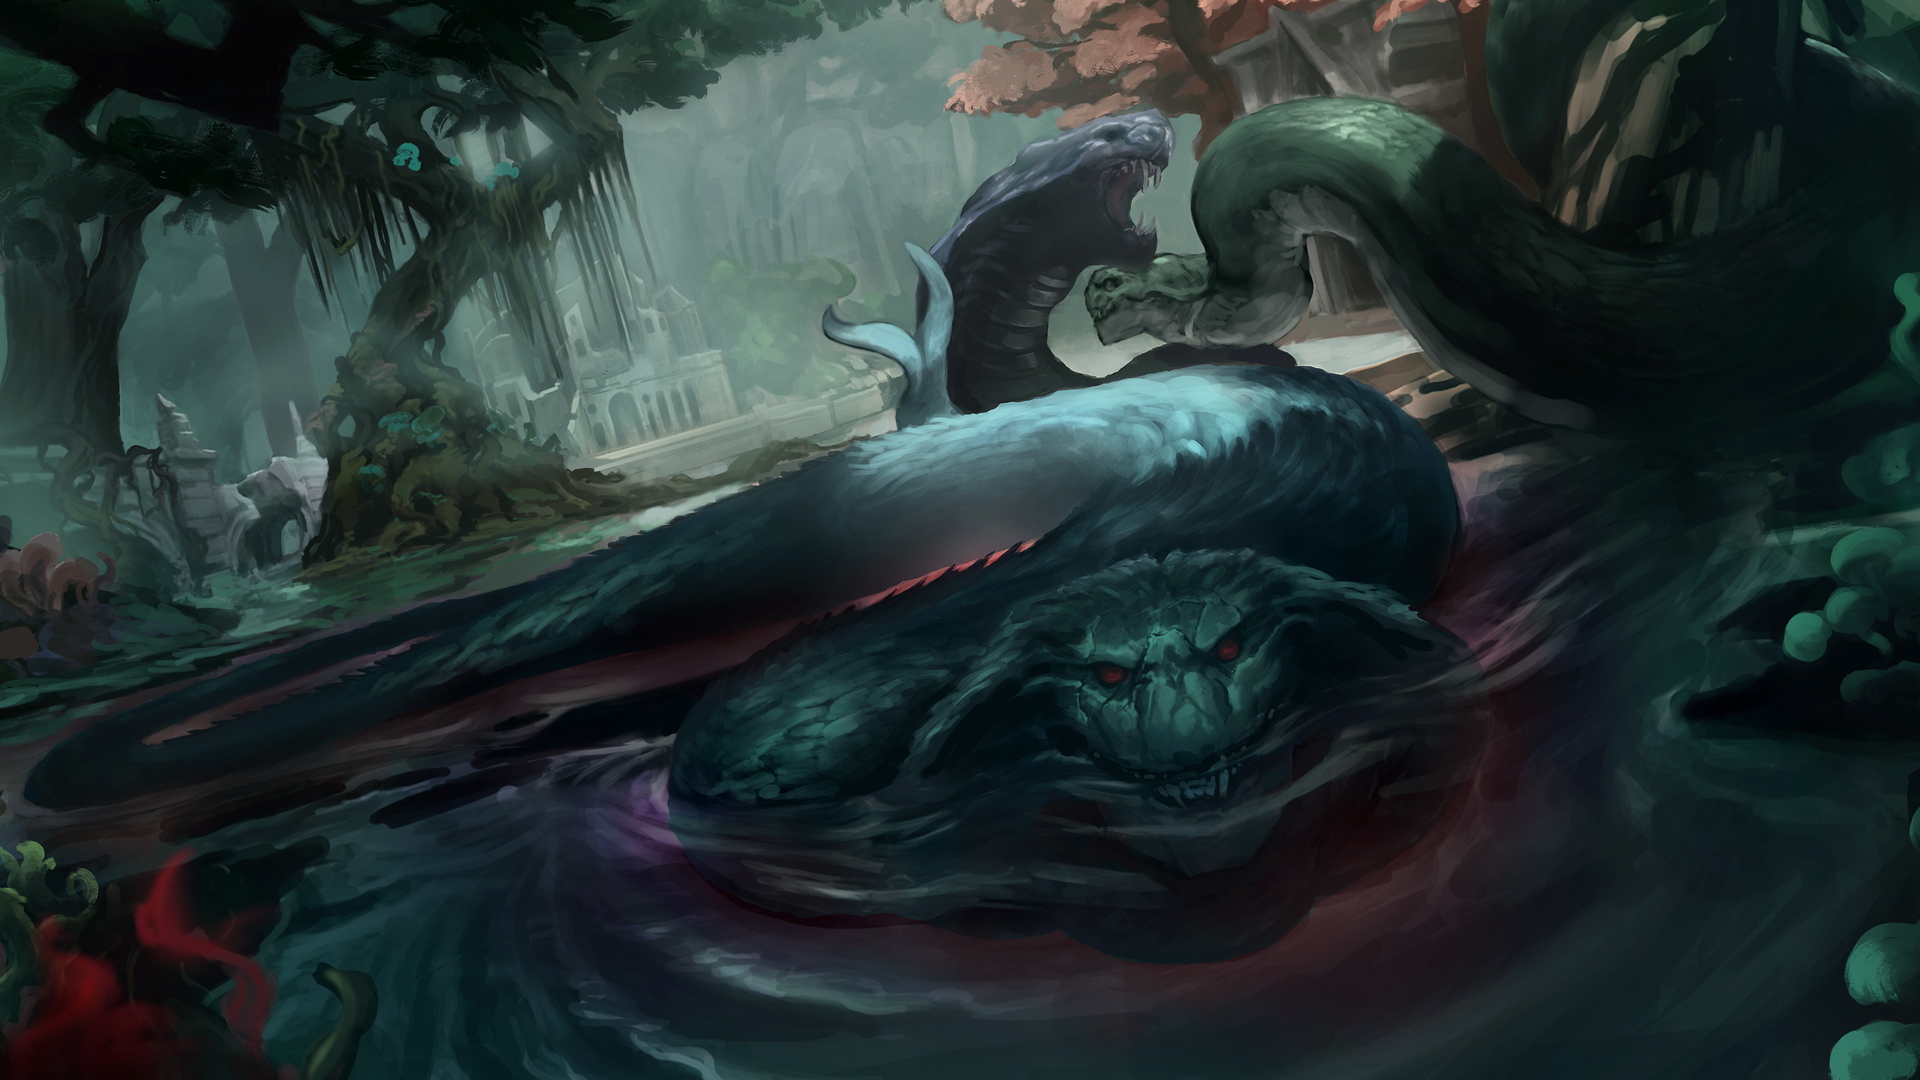
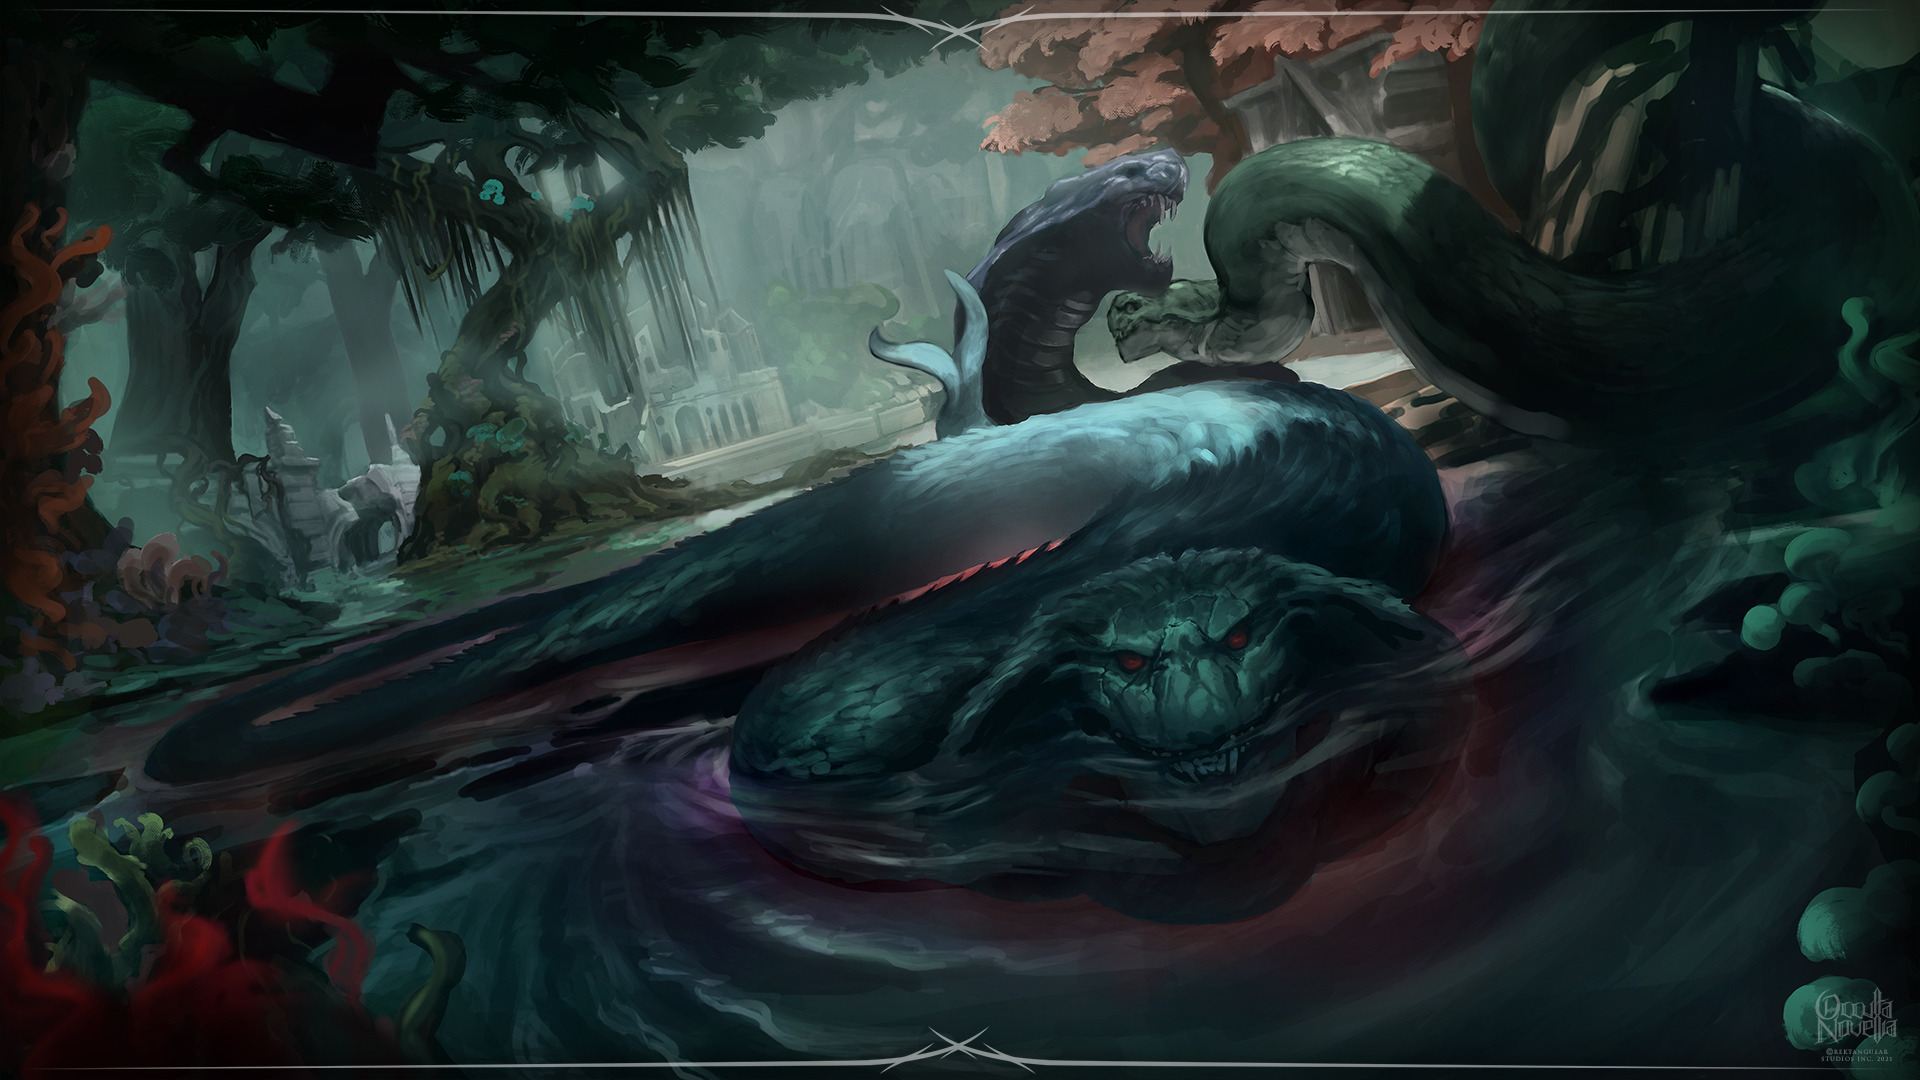
update images to branded ones

diff --git a/pages/white_paper/occulta_novellia/cards.md b/pages/white_paper/occulta_novellia/cards.md
@@ -9,7 +9,7 @@ folder: white_paper/occulta_novellia
 list_images: '/assets/images/illustrations/draculi_1080.jpg,/assets/images/illustrations/laurence_the_duelist_1080.png,/assets/images/illustrations/iscara_the_ten_thousand_guns_1080.png,/assets/images/illustrations/alpha_draculi_1080.png'
 ---
 
-![Draculi Card](/assets/images/draculi_card_v2.jpg "The Draculi are fast serpents with human-like jaws. So-named for their resemblance to vampires, their human teeth have fangs to suck blood. They prefer to live in water, leaving it with a red tint. It is not known where they go, deep within the Garden of Residues' waters."){:loading="lazy"}
+![Draculi Card](/assets/images/draculi_card.jpg "The Draculi are fast serpents with human-like jaws. So-named for their resemblance to vampires, their human teeth have fangs to suck blood. They prefer to live in water, leaving it with a red tint. It is not known where they go, deep within the Garden of Residues' waters."){:loading="lazy"}
 
 ## Stages
 
